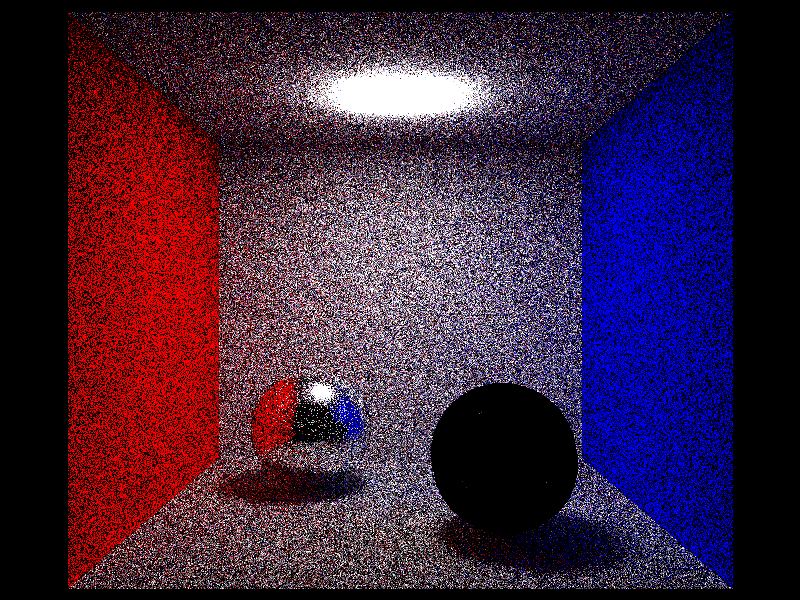
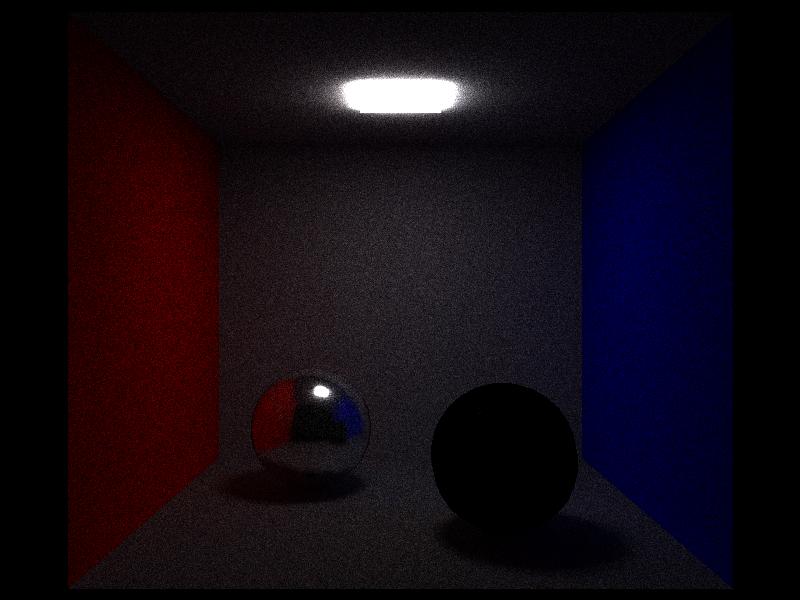
800Sample

diff --git a/CVMCTracer/CVMCTracer/stdafx.h b/CVMCTracer/CVMCTracer/stdafx.h
@@ -31,5 +31,5 @@ using PWVector4f = struct _PWVector4f
 const PWuint IMG_WIDTH = 800;
 const PWuint IMG_HEIGHT = 600;
 const PWuint NUM_SAMPLES = 4;
-#define ILLUM 78
+#define ILLUM 20
 #define PW_PI 3.14159265359f
